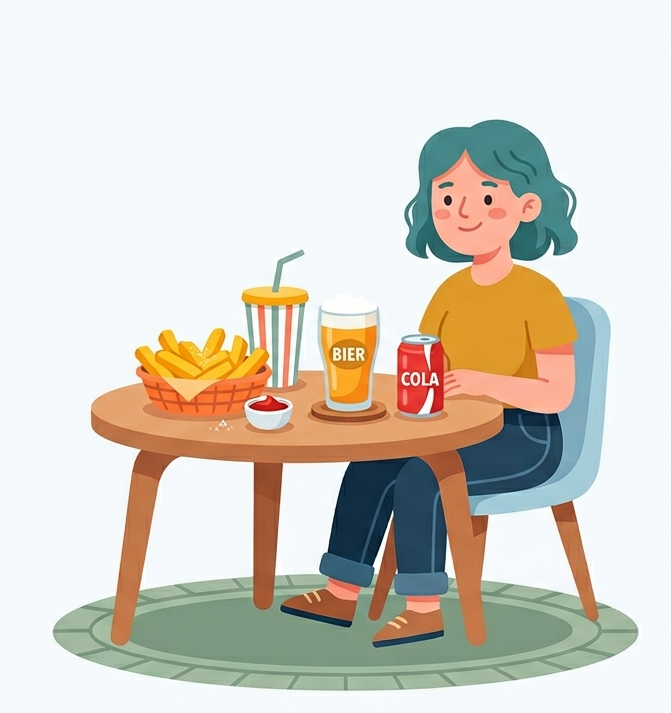
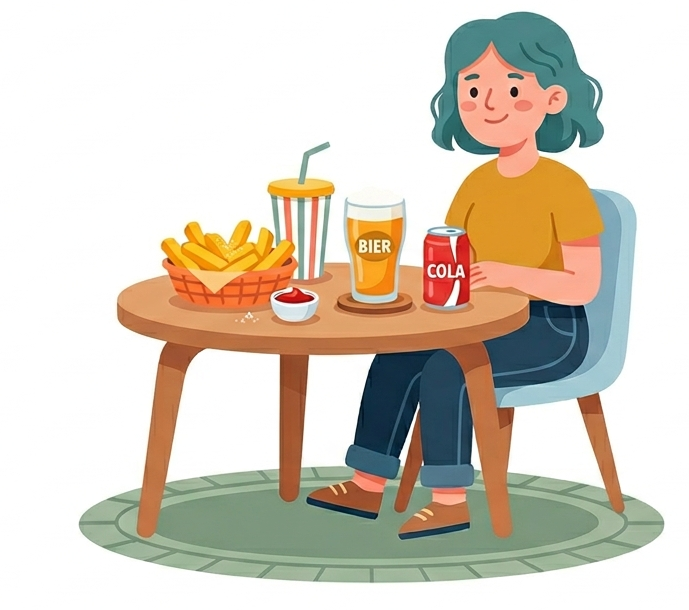
User ui enhancements

diff --git a/src/index.css b/src/index.css
@@ -1,15 +1,38 @@
+#landscape-overlay{
+  display: none;
+}
+@media screen and (orientation: landscape) {
+  #landscape-overlay {
+    display: flex;
+    width: var(--vw);
+    height: var(--vh);
+    margin: 0;
+    overflow: hidden;
+    min-height: fit-content;
+    padding-right: var(--pico-spacing);
+    padding-left: var(--pico-spacing);
+    display: flex;
+    flex-direction: column;
+    justify-content: center;
+    align-items: center;
+    gap: var(--pico-grid-column-gap);
+  }
+}
+
 html,
 body,
-#page-container {
+#page-container,
+#landscape-overlay {
   width: var(--vw, 100vw);
-  height: var(--vh, 100vh); 
+  height: var(--vh, 100vh);
   margin: 0;
   padding: 0;
   overflow: hidden;
   min-height: fit-content;
 }
 
-#page-container {
+#page-container,
+#landscape-overlay {
   width: var(--vw);
   height: var(--vh);
   padding-right: var(--pico-spacing);
@@ -20,4 +43,3 @@ body,
   align-items: center;
   gap: var(--pico-grid-column-gap);
 }
-

diff --git a/src/index.html b/src/index.html
@@ -26,6 +26,8 @@
     
   </main>
 
+  <main id="landscape-overlay">Ruota lo schermo in posizione verticale</main>
+
   <script type="module" src="./auth/check-auth.ts"></script>
   <script type="module" src="./index.ts"></script>
 </body>

diff --git a/src/user/user.base.views.ts b/src/user/user.base.views.ts
@@ -91,6 +91,6 @@ export class LoadingPage extends StaticPage {
     }
     render(): void {
         if(!this.container) throw new Error("Render called before create");
-        this.container.innerHTML = `<span>${this.message}</span><img src="/img/waiting_for_start.png">`;
+        this.container.innerHTML = `<div style="flex:1"></div><span>${this.message}</span><div style="flex:1"></div><img src="/img/waiting_for_start.png">`;
     }
 }